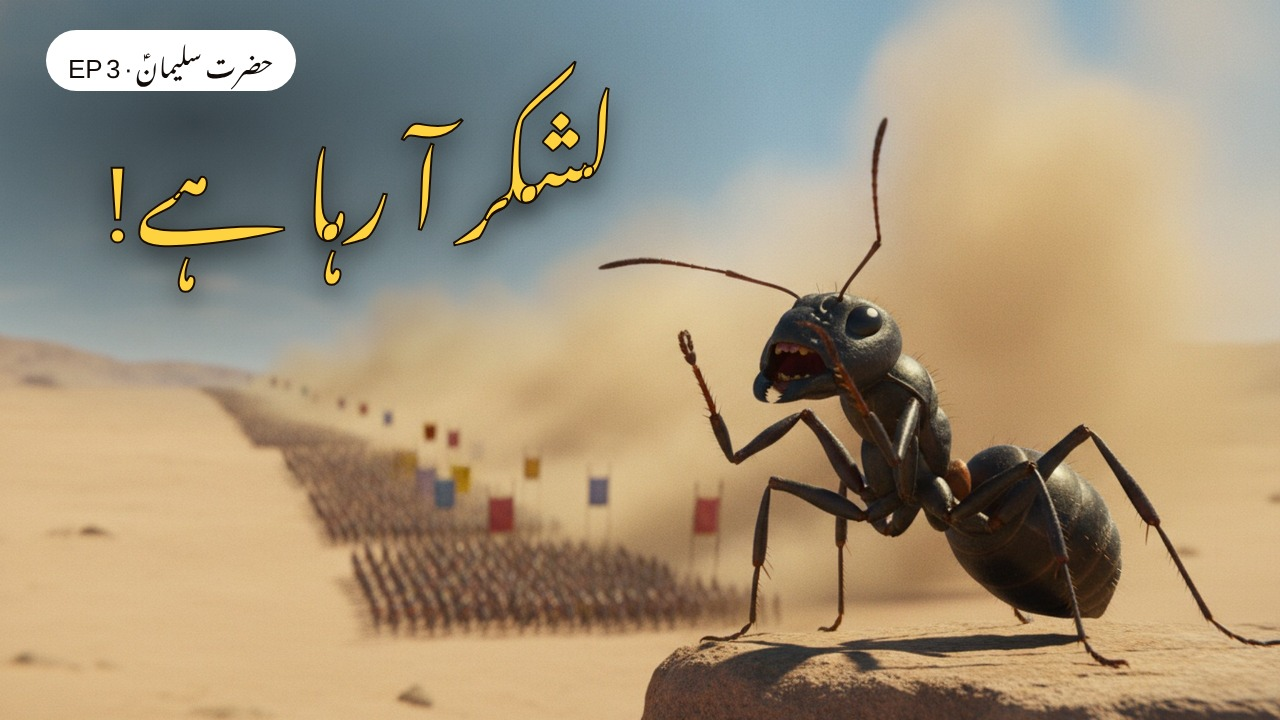
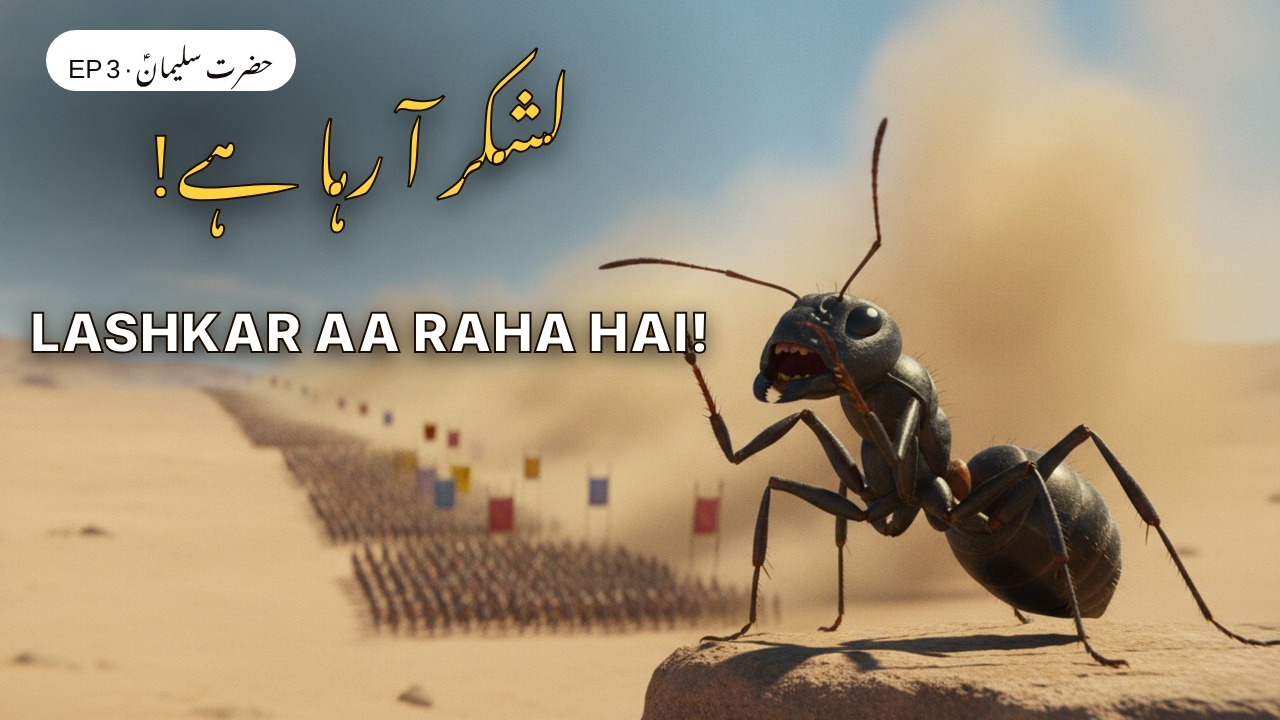
Sulaiman UR thumbnail: Roman Urdu line added
Claude-Session: https://claude.ai/code/session_019ZSVGSKwArszmxSEYesnzJ

Changed region(s): [[0.0, 0.0611, 0.5625, 0.5194]]

diff --git a/long/04-sulaiman/thumbnail/v5/thumbnail-ur.html b/long/04-sulaiman/thumbnail/v5/thumbnail-ur.html
@@ -3,9 +3,11 @@
 html,body { margin:0; width:1280px; height:720px; overflow:hidden; background:#000; }
 .bg { position:absolute; inset:0; background:url(assets/gen/thumb.jpg) center/cover; }
 .sh { position:absolute; left:0; top:0; width:780px; height:440px; background:radial-gradient(ellipse at 25% 28%, rgba(0,0,0,0.6), rgba(0,0,0,0) 70%); }
-.t { position:absolute; left:40px; width:640px; top:70px; text-align:center; font-family:N; font-size:112px; line-height:1.75; direction:rtl;
+.t { position:absolute; left:40px; width:640px; top:56px; text-align:center; font-family:N; font-size:92px; line-height:1.75; direction:rtl;
   color:#ffd23f; -webkit-text-stroke: 2px #1a0d00; text-shadow: 0 8px 28px rgba(0,0,0,0.85); }
 #chip { position:absolute; top:30px; left:46px; font-family:N,sans-serif; font-size:26px; line-height:1.9; color:#120b08; background:#fff;
   border-radius:999px; padding:6px 22px; direction:rtl; }
+.r { position:absolute; left:30px; width:680px; top:300px; text-align:center; font-family:Inter,Arial Black,Arial,sans-serif; font-weight:900;
+  font-size:54px; white-space:nowrap; color:#ffffff; -webkit-text-stroke: 2px #1a0d00; text-shadow: 0 6px 22px rgba(0,0,0,0.85); letter-spacing:0.01em; }
 </style></head><body><div class="bg"></div><div class="sh"></div>
-<div id="chip">حضرت سلیمانؑ · EP 3</div><div class="t">لشکر آ رہا ہے!</div></body></html>
+<div id="chip">حضرت سلیمانؑ · EP 3</div><div class="t">لشکر آ رہا ہے!</div><div class="r">LASHKAR AA RAHA HAI!</div></body></html>

diff --git a/scripts/handoff.md b/scripts/handoff.md
@@ -370,3 +370,4 @@ A new session can recreate these for itself (send_later / create_trigger) and de
 - 27 Nov: 51-hearts-rest built for Tue 1 Dec 10:00 (13:28; calm hook 'Your heart can't rest? Listen.' 2.96 s; hook → verse, no set-up; 30.8 s; SubhanAllah v3 STT YES; scorecard 97; title '13:28: What Finally Brings Calm? 🤍' 98). Awaiting approval to schedule.
 - 27 Nov 15:05 PKT: user approved; 51-hearts-rest scheduled Tue 1 Dec 10:00, post 444154179 (uuid -8928684402412207263), title '13:28: What Finally Brings Calm? 🤍', cover 2500, media 3515d17. Related video: Ease (user sets in Studio after publish). Week 25 Nov–1 Dec now fully scheduled.
 - 27 Nov: Sulaiman UR repackage: title '1 Chiyunti Boli, Nabi Muskuraye: Hazrat Sulaiman AS | EP 3' (98), thumbnail v5/thumbnail-ur.jpg ('لشکر آ رہا ہے!' + same ant/army). User changes in Studio.
+- 27 Nov: UR thumbnail adds Roman line 'LASHKAR AA RAHA HAI!' under the Urdu (user: for Hindi readers / outside audience).
